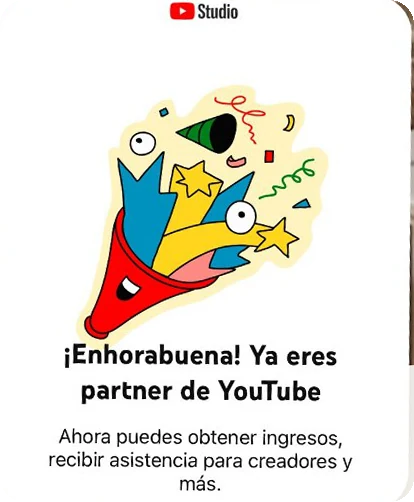
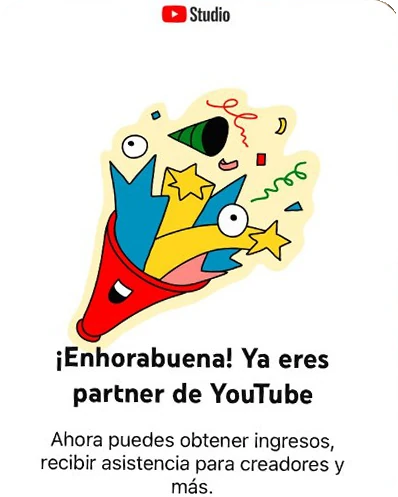
Guía compacta estilo newsletter (solo email), botón de YouTube, foto de pequeña en color y partner recortado

diff --git a/index.html b/index.html
@@ -3,11 +3,11 @@
 <head>
   <meta charset="UTF-8">
   <script>if (window.top !== window.self) { try { window.top.location = window.self.location; } catch (e) { document.documentElement.style.display = 'none'; } }</script>
-  <meta http-equiv="Content-Security-Policy" content="default-src 'self'; script-src 'self' 'sha256-qB01JqjT+mB6JKcHXYG+68RppGRiMydDMi58H8fkYqk=' 'sha256-YnJrX/fFLVLEilIx0n7Q9kihUVmo4e21xFTP/WajibU=' https://gc.zgo.at; style-src 'self' 'unsafe-inline'; img-src 'self' data: https://klauvara.goatcounter.com; font-src 'self'; connect-src 'self' https://script.google.com https://script.googleusercontent.com https://klauvara.goatcounter.com; object-src 'none'; base-uri 'self'; form-action 'self'; upgrade-insecure-requests">
+  <meta http-equiv="Content-Security-Policy" content="default-src 'self'; script-src 'self' 'sha256-qB01JqjT+mB6JKcHXYG+68RppGRiMydDMi58H8fkYqk=' 'sha256-uG/vNiEqihQnpNOcmnC40yqTpz28xGx4rVAgY0GEFa0=' https://gc.zgo.at; style-src 'self' 'unsafe-inline'; img-src 'self' data: https://klauvara.goatcounter.com; font-src 'self'; connect-src 'self' https://script.google.com https://script.googleusercontent.com https://klauvara.goatcounter.com; object-src 'none'; base-uri 'self'; form-action 'self'; upgrade-insecure-requests">
   <meta name="referrer" content="strict-origin-when-cross-origin">
   <meta name="viewport" content="width=device-width, initial-scale=1, viewport-fit=cover">
   <title>Claudia Fernández (Klauvara) · Negocios, marcas e internet en YouTube</title>
-  <meta name="description" content="Klauvara: negocios, marcas e internet por dentro. La historia de Claudia, de canales sin cara a enseñarse, y cómo ayuda a emprendedores a dejar de ser invisibles con YouTube.">
+  <meta name="description" content="Klauvara: negocios, marcas e internet por dentro. La historia de Claudia, de canales sin cara a dar la cara, y cómo ayuda a emprendedores a dejar de ser invisibles con YouTube.">
   <link rel="canonical" href="https://klauvara.com/">
   <meta name="robots" content="index, follow, max-image-preview:large">
   <meta name="author" content="Claudia Fernández">
@@ -163,30 +163,7 @@ em { font-family: var(--serif); font-style: italic; font-weight: 400; letter-spa
 
 /* ---------- la guía (tarjeta de suscripción) ---------- */
 /* páginas reales de la guía, pixeladas y con candado */
-.vault { display: grid; grid-template-columns: minmax(0, 1.08fr) minmax(0, .92fr); grid-template-areas: "head tiles" "form tiles"; gap: 22px clamp(28px, 4vw, 56px); align-items: center; padding: clamp(26px, 3.6vw, 44px); }
-.vault__head { grid-area: head; align-self: end; }
-.vault__head .h3 { font-size: clamp(26px, 2.4vw, 34px); }
-.vault__head .p { margin-top: 12px; font-size: 16px; }
-.vault__grid { grid-area: tiles; display: grid; grid-template-columns: repeat(3, 1fr); gap: 12px; margin: 0; padding: 0; list-style: none; }
-.lock { position: relative; aspect-ratio: 4 / 5; border-radius: 14px; overflow: hidden; background: #2A211B; isolation: isolate; }
-.lock img { width: 100%; height: 100%; object-fit: cover; transform: scale(1.04); filter: brightness(1.25) contrast(1.05); transition: transform .7s var(--ease); }
-.lock:hover img { transform: scale(1.12); }
-.lock::after { content: ""; position: absolute; inset: 0; z-index: 1; border-radius: inherit; box-shadow: inset 0 0 0 1px rgba(251, 248, 244, .14); background: linear-gradient(to top, rgba(23, 17, 14, .92) 0%, rgba(23, 17, 14, .55) 30%, rgba(23, 17, 14, 0) 60%); }
 /* brillo que recorre las páginas, como contenido sellado */
-.lock::before { content: ""; position: absolute; inset: -20% -60%; z-index: 2; background: linear-gradient(105deg, transparent 40%, rgba(255, 244, 230, .16) 50%, transparent 60%); transform: translateX(-60%); animation: sheen 5.5s ease-in-out infinite; }
-.lock:nth-child(2)::before { animation-delay: .4s; }
-.lock:nth-child(3)::before { animation-delay: .8s; }
-@keyframes sheen { 0%, 55% { transform: translateX(-60%); } 85%, 100% { transform: translateX(60%); } }
-.lock__badge { position: absolute; top: 10px; right: 10px; z-index: 3; width: 30px; height: 30px; border-radius: 50%; background: rgba(251, 248, 244, .94); color: var(--ink); display: grid; place-items: center; transition: transform .3s var(--ease); }
-.lock:hover .lock__badge { transform: rotate(-12deg) scale(1.1); }
-.lock__cap { position: absolute; left: 10px; right: 10px; bottom: 10px; z-index: 3; font-size: 13px; font-weight: 600; line-height: 1.25; letter-spacing: -.01em; color: var(--paper); text-wrap: balance; }
-.lock__cap small { display: block; margin-bottom: 5px; font-size: 10.5px; font-weight: 600; letter-spacing: .16em; text-transform: uppercase; color: var(--tan-light); }
-.js .vault__grid .reveal:nth-child(2) { transition-delay: .06s; }
-.js .vault__grid .reveal:nth-child(3) { transition-delay: .12s; }
-.vault__form { grid-area: form; align-self: start; margin-top: 0; gap: 10px; }
-.vault__form .form__row { grid-template-columns: 1fr 1fr; }
-.vault__form .form__row .btn { grid-column: 1 / -1; }
-.vault__form .form__legal { font-size: 11px; }
 .form { margin-top: 26px; display: grid; gap: 12px; }
 .form__row { display: grid; grid-template-columns: 1fr 1fr; gap: 10px; }
 .form input[type=text], .form input[type=email] { font: inherit; font-size: 16px; padding: 15px 20px; border-radius: 999px; border: 1px solid rgba(251, 248, 244, .2); background: rgba(251, 248, 244, .07); color: var(--paper); width: 100%; min-width: 0; }
@@ -201,6 +178,24 @@ em { font-family: var(--serif); font-style: italic; font-weight: 400; letter-spa
 .form__legal { font-size: 11.5px; line-height: 1.5; color: #8F8276; }
 .form__legal a, .check a { color: inherit; text-decoration: underline; text-underline-offset: 2px; }
 .hp { position: absolute; left: -9999px; }
+/* guía: tarjeta compacta, imagen a la izquierda y solo email */
+.news { display: grid; grid-template-columns: minmax(0, .8fr) minmax(0, 1.2fr); gap: clamp(24px, 4vw, 56px); align-items: center; padding: clamp(28px, 3.6vw, 48px) clamp(28px, 5vw, 64px); }
+.news__art { position: relative; margin: 0; width: 100%; max-width: 300px; aspect-ratio: 1; justify-self: center; }
+.news__circle { position: absolute; inset: 4%; border-radius: 50%; background: radial-gradient(circle at 35% 30%, rgba(199, 168, 138, .34), rgba(124, 94, 70, .2) 60%, rgba(124, 94, 70, .08) 100%); }
+.news__cover { position: absolute; z-index: 3; width: 50%; left: 25%; top: 13%; border-radius: 10px; transform: rotate(-6deg); box-shadow: 0 30px 50px -20px rgba(0, 0, 0, .75); transition: transform .5s var(--ease); }
+.news__page { position: absolute; width: 42%; top: 20%; border-radius: 9px; filter: brightness(1.2); box-shadow: 0 24px 40px -20px rgba(0, 0, 0, .7); transition: transform .5s var(--ease); }
+.news__page--1 { z-index: 2; left: 47%; transform: rotate(10deg); }
+.news__page--2 { z-index: 1; left: 11%; transform: rotate(-16deg); top: 24%; }
+.news:hover .news__cover { transform: rotate(-3deg) translateY(-6px); }
+.news:hover .news__page--1 { transform: rotate(14deg) translateX(8px); }
+.news:hover .news__page--2 { transform: rotate(-20deg) translateX(-8px); }
+.news__lock { position: absolute; z-index: 4; right: 6%; bottom: 14%; display: inline-flex; align-items: center; gap: 6px; background: var(--paper); color: var(--ink); font-size: 12.5px; font-weight: 600; padding: 8px 13px; border-radius: 999px; transform: rotate(4deg); box-shadow: 0 14px 26px -12px rgba(0, 0, 0, .6); }
+.news__title { font-size: clamp(28px, 2.6vw, 40px); line-height: 1.08; letter-spacing: -.03em; font-weight: 600; }
+.news__text { margin-top: 12px; color: #CFC2B5; font-size: 16.5px; max-width: 30em; }
+.news__form { margin-top: 22px; gap: 10px; max-width: 520px; }
+.news__row { display: grid; grid-template-columns: minmax(0, 1fr) auto; gap: 8px; }
+.news__row .btn { width: auto; white-space: nowrap; }
+.news__form .form__legal { font-size: 11px; }
 
 
 /* ---------- 4 tarjetas con icono ---------- */
@@ -365,7 +360,6 @@ body.modal-open { overflow: hidden; }
   *, *::before, *::after { animation: none !important; transition: none !important; }
   .js .reveal { opacity: 1; transform: none; }
   .quote__text .w { opacity: 1; }
-  .lock::before { display: none; }
 }
 
 /* ---------- tablet ---------- */
@@ -375,10 +369,11 @@ body.modal-open { overflow: hidden; }
   .hero__lead { margin-left: auto; margin-right: auto; }
   .hero__actions { justify-content: center; }
   .hero__media { width: min(78%, 340px); margin: 24px auto 64px; }
-  .offer, .chapter { grid-template-columns: 1fr; }
-  .vault { grid-template-columns: minmax(0, 1fr); grid-template-areas: "head" "tiles" "form"; }
-  .vault__head { text-align: center; }
-  .vault__grid { max-width: 520px; width: 100%; margin: 0 auto; }
+  .offer, .chapter, .news { grid-template-columns: 1fr; }
+  .news { text-align: center; }
+  .news__text, .news__form { margin-left: auto; margin-right: auto; }
+  .news__art { max-width: 240px; }
+  .news__form .check, .news__form .form__legal { text-align: left; }
   .chapter:nth-child(even) .chapter__img { order: 0; }
   .chapter__img .sticker { width: 38%; right: 2%; bottom: -6%; }
   .chapter__img--stack { margin-bottom: 18px; }
@@ -398,14 +393,6 @@ body.modal-open { overflow: hidden; }
   .hl { white-space: normal; }
   .hero__actions .btn { flex: 1 1 100%; }
   .card { border-radius: 24px; }
-  .form__row, .vault__form .form__row { grid-template-columns: 1fr; }
-  .vault__form .form__row .btn { width: 100%; }
-  .vault__grid { gap: 8px; }
-  .lock { border-radius: 12px; }
-  .lock__badge { top: 7px; right: 7px; width: 24px; height: 24px; }
-  .lock__badge svg { width: 12px; height: 12px; }
-  .lock__cap { left: 8px; right: 8px; bottom: 8px; font-size: 11.5px; }
-  .lock__cap small { font-size: 9px; letter-spacing: .12em; }
   .metrics li { padding: 10px; }
   .metrics b { font-size: 16px; }
   .metrics span { font-size: 11px; }
@@ -449,8 +436,8 @@ body.modal-open { overflow: hidden; }
           <h1 class="hero__title">Antes, nadie me veía.<br>Hoy ayudo a negocios a<br><span class="hl"><em>dejar de ser invisibles.</em></span></h1>
           <p class="hero__lead">Cuento en YouTube cómo funcionan los negocios y las marcas por dentro. Vídeos nuevos cada semana.</p>
           <div class="hero__actions">
-            <a class="btn btn--light" href="#ayuda">Trabaja conmigo</a>
-            <a class="btn btn--line" href="#sobre-mi">Conoce mi historia</a>
+            <a class="btn btn--light" href="https://www.youtube.com/@klauvara" target="_blank" rel="noopener"><svg viewBox="0 0 24 24" width="16" height="16" aria-hidden="true"><path fill="currentColor" d="M8 5.5v13l11-6.5z"/></svg>Ver en YouTube</a>
+            <a class="btn btn--line" href="#ayuda">Trabaja conmigo</a>
           </div>
         </div>
         <figure class="hero__media" aria-hidden="true">
@@ -463,31 +450,31 @@ body.modal-open { overflow: hidden; }
     <!-- LA GUÍA -->
     <section class="block" id="historia">
       <div class="wrap">
-        <div class="card card--night vault reveal">
-          <div class="vault__head">
-            <span class="kicker">Para quien me sigue · Gratis</span>
-            <h2 class="h3">Lo que no cuento<br><em>en los vídeos.</em></h2>
-            <p class="p">Los canales que tuve antes de Klauvara, lo que ganó de verdad el primero y lo que haría distinto si empezara hoy. 13 páginas con capturas reales, directo a tu email.</p>
+        <div class="card card--night news reveal">
+          <figure class="news__art" aria-hidden="true">
+            <span class="news__circle"></span>
+            <img class="news__page news__page--2" src="bloqueada-4.webp" alt="" loading="lazy" decoding="async" width="480" height="600">
+            <img class="news__page news__page--1" src="bloqueada-2.webp" alt="" loading="lazy" decoding="async" width="480" height="600">
+            <img class="news__cover" src="secreto-1.webp" alt="" loading="lazy" decoding="async" width="540" height="675">
+            <span class="news__lock"><svg viewBox="0 0 24 24" width="13" height="13" aria-hidden="true"><path fill="currentColor" d="M12 2a5 5 0 0 0-5 5v3H6a2 2 0 0 0-2 2v8a2 2 0 0 0 2 2h12a2 2 0 0 0 2-2v-8a2 2 0 0 0-2-2h-1V7a5 5 0 0 0-5-5Zm-3 8V7a3 3 0 1 1 6 0v3H9Z"/></svg> 13 páginas</span>
+          </figure>
+          <div>
+            <h2 class="news__title">Lo que no cuento<br><em>en los vídeos.</em></h2>
+            <p class="news__text">Los canales que tuve antes de Klauvara, lo que ganó de verdad y lo que haría distinto. Gratis, en tu email.</p>
+            <form class="form news__form" id="form-guia" novalidate>
+              <div class="news__row">
+                <input type="email" name="email" placeholder="Tu email" autocomplete="email" required maxlength="120" aria-label="Tu email">
+                <button class="btn btn--light" type="submit">Quiero la guía</button>
+              </div>
+              <input class="hp" type="text" name="k_trap" tabindex="-1" autocomplete="off" aria-hidden="true">
+              <label class="check">
+                <input type="checkbox" name="acepto" required>
+                <span>Acepto la <a href="privacidad.html">política de privacidad</a> y recibir emails de Klauvara. Baja con un clic.</span>
+              </label>
+              <p class="form__msg" role="alert"></p>
+              <p class="form__legal">Responsable: Claudia Fernández. Finalidad: enviarte la guía y algunos emails. Tus datos se guardan en Kit y no se ceden. Acceso, rectificación o borrado: hola@klauvara.com. <a href="privacidad.html">Más información</a>.</p>
+            </form>
           </div>
-          <ul class="vault__grid" aria-label="Algunas páginas de la guía, bloqueadas">
-            <li class="lock reveal"><img src="bloqueada-2.webp" alt="" loading="lazy" decoding="async" width="480" height="600"><span class="lock__badge"><svg viewBox="0 0 24 24" width="15" height="15" aria-hidden="true"><path fill="currentColor" d="M12 2a5 5 0 0 0-5 5v3H6a2 2 0 0 0-2 2v8a2 2 0 0 0 2 2h12a2 2 0 0 0 2-2v-8a2 2 0 0 0-2-2h-1V7a5 5 0 0 0-5-5Zm-3 8V7a3 3 0 1 1 6 0v3H9Z"/></svg></span><span class="lock__cap"><small>Pág. 04</small>Los canales que fracasaron</span></li>
-            <li class="lock reveal"><img src="bloqueada-4.webp" alt="" loading="lazy" decoding="async" width="480" height="600"><span class="lock__badge"><svg viewBox="0 0 24 24" width="15" height="15" aria-hidden="true"><path fill="currentColor" d="M12 2a5 5 0 0 0-5 5v3H6a2 2 0 0 0-2 2v8a2 2 0 0 0 2 2h12a2 2 0 0 0 2-2v-8a2 2 0 0 0-2-2h-1V7a5 5 0 0 0-5-5Zm-3 8V7a3 3 0 1 1 6 0v3H9Z"/></svg></span><span class="lock__cap"><small>Pág. 07</small>Lo que ganó de verdad</span></li>
-            <li class="lock reveal"><img src="bloqueada-5.webp" alt="" loading="lazy" decoding="async" width="480" height="600"><span class="lock__badge"><svg viewBox="0 0 24 24" width="15" height="15" aria-hidden="true"><path fill="currentColor" d="M12 2a5 5 0 0 0-5 5v3H6a2 2 0 0 0-2 2v8a2 2 0 0 0 2 2h12a2 2 0 0 0 2-2v-8a2 2 0 0 0-2-2h-1V7a5 5 0 0 0-5-5Zm-3 8V7a3 3 0 1 1 6 0v3H9Z"/></svg></span><span class="lock__cap"><small>Pág. 10</small>5 cosas que haría distinto</span></li>
-          </ul>
-          <form class="form vault__form" id="form-guia" novalidate>
-            <div class="form__row">
-              <input type="text" name="nombre" placeholder="Tu nombre" autocomplete="given-name" required maxlength="80" aria-label="Tu nombre">
-              <input type="email" name="email" placeholder="Tu email" autocomplete="email" required maxlength="120" aria-label="Tu email">
-              <button class="btn btn--light" type="submit"><svg viewBox="0 0 24 24" width="15" height="15" aria-hidden="true"><path fill="currentColor" d="M12 2a5 5 0 0 0-5 5v3H6a2 2 0 0 0-2 2v8a2 2 0 0 0 2 2h12a2 2 0 0 0 2-2v-8a2 2 0 0 0-2-2h-1V7a5 5 0 0 0-5-5Zm-3 8V7a3 3 0 1 1 6 0v3H9Z"/></svg> Desbloquear gratis</button>
-            </div>
-            <input class="hp" type="text" name="k_trap" tabindex="-1" autocomplete="off" aria-hidden="true">
-            <label class="check">
-              <input type="checkbox" name="acepto" required>
-              <span>He leído la <a href="privacidad.html">política de privacidad</a> y acepto recibir emails de Klauvara. Puedes darte de baja cuando quieras.</span>
-            </label>
-            <p class="form__msg" role="alert"></p>
-            <p class="form__legal">Responsable: Claudia Fernández. Finalidad: enviarte la guía y algunos emails. Tus datos se guardan en Kit y no se ceden a nadie. Para acceder a ellos, corregirlos o borrarlos: hola@klauvara.com. <a href="privacidad.html">Más información</a>.</p>
-          </form>
         </div>
       </div>
     </section>
@@ -591,7 +578,7 @@ body.modal-open { overflow: hidden; }
             </div>
           </li>
           <li class="chapter reveal">
-            <figure class="chapter__img chapter__img--stack"><img src="historia-3.webp" alt="Claudia abriendo su primer portátil" loading="lazy" decoding="async" width="1000" height="826"><img class="sticker" src="historia-partner.webp" alt="Aviso de YouTube Studio: ¡Enhorabuena! Ya eres partner de YouTube" loading="lazy" decoding="async" width="414" height="502"></figure>
+            <figure class="chapter__img chapter__img--stack"><img src="historia-3.webp" alt="Claudia abriendo su primer portátil" loading="lazy" decoding="async" width="1000" height="826"><img class="sticker" src="historia-partner.webp" alt="Aviso de YouTube Studio: ¡Enhorabuena! Ya eres partner de YouTube" loading="lazy" decoding="async" width="398" height="497"></figure>
             <div class="chapter__body">
               <span class="chapter__n">03 · El primer canal</span>
               <h3>Funcionó.<br><em>Y seguía escondida.</em></h3>
@@ -822,7 +809,6 @@ if (form) {
     const d = new FormData(form);
     const nombre = (d.get('nombre') || '').trim();
     const email = (d.get('email') || '').trim();
-    if (!nombre) { msg.textContent = 'Dime tu nombre.'; form.nombre.focus(); return; }
     if (!/^[^\s@]+@[^\s@]+\.[^\s@]+$/.test(email)) { msg.textContent = 'Revisa el email, parece que no está bien.'; form.email.focus(); return; }
     if (!d.get('acepto')) {
       msg.textContent = 'Tienes que aceptar la casilla para poder continuar.';
